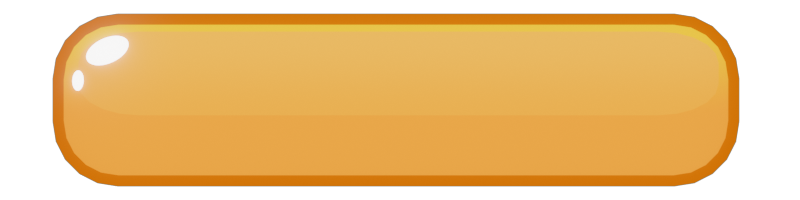
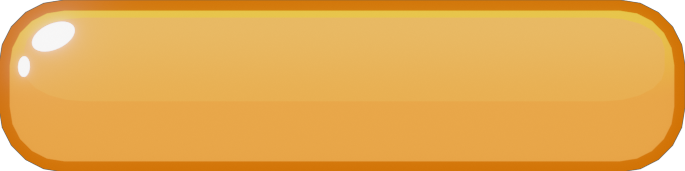
Fixed  buttons in Main Menu

diff --git a/Main_Menue.py b/Main_Menue.py
@@ -15,13 +15,18 @@ quit_img = pygame.image.load('images/button.png').convert_alpha()
 
 #button class 
 class Button():
-    def __init__(self,x,y,image,scale):
-        self.width = image.get_width()
-        self.height = image.get_height()     
-        self.image = pygame.transform.scale(image, (int(self.width * scale), int(self.height*scale)))
-        self.scale = self.width * scale
-        self.rect = self.image.get_rect()
-        self.rect.topleft = (x,y)
+    def __init__(self, image, pos, text_input, font, base_color, hovering_color):
+        self.image = image
+        self.x_pos = pos[0]
+        self.y_pos = pos[1]
+        self.font = font
+        self.base_color, self.hovering_color = base_color, hovering_color
+        self.text_input = text_input
+        self.text = self.font.render(self.text_input, True, self.base_color)
+        if self.image is None:
+            self.image = self.text
+        self.rect = self.image.get_rect(center=(self.x_pos, self.y_pos))
+        self.text_rect = self.text.get_rect(center=(self.x_pos, self.y_pos))
         self.clicked = False
 
     def draw(self): 
@@ -40,15 +45,19 @@ class Button():
         
             
         #draw button on screen
-        screen.blit(self.image, (self.rect.x - self.scale / 2, self.rect.y))
+        if self.image is not None:
+            screen.blit(self.image, self.rect)
+        screen.blit(self.text, self.text_rect)
         
         return action 
         
     
 
 #Button instances
-start_button = Button(SCREEN_WIDTH / 2,300,start_img,1)
-exit_button = Button(SCREEN_WIDTH / 2,100,quit_img,1)
+button_img = pygame.transform.scale(pygame.image.load('images/button.png').convert_alpha(), (800, 180))
+start_button = Button(image=button_img, pos=(SCREEN_WIDTH / 2,SCREEN_Height  *1/ 4),text_input="Editor", font=pygame.font.Font('images/Fonts/foo.otf', 50), base_color="#000000", hovering_color="#333333")
+exit_button = Button(image=button_img, pos=(SCREEN_WIDTH / 2,SCREEN_Height * 2/ 4),text_input="Exit", font=pygame.font.Font('images/Fonts/foo.otf', 50), base_color="#000000", hovering_color="#333333")
+
 
 
 #Game loop 

diff --git a/Demo.py b/Demo.py
@@ -1,0 +1,15 @@
+import pygame as pg
+from editor import Editor
+
+pg.init()
+
+window = pg.display.set_mode((1100, 740))
+
+class Demo:
+    def start_demo():
+        editor = Editor(1100, 740, window)
+        editor.run()
+        editor.load_level()
+
+Demo.start_demo()
+    
